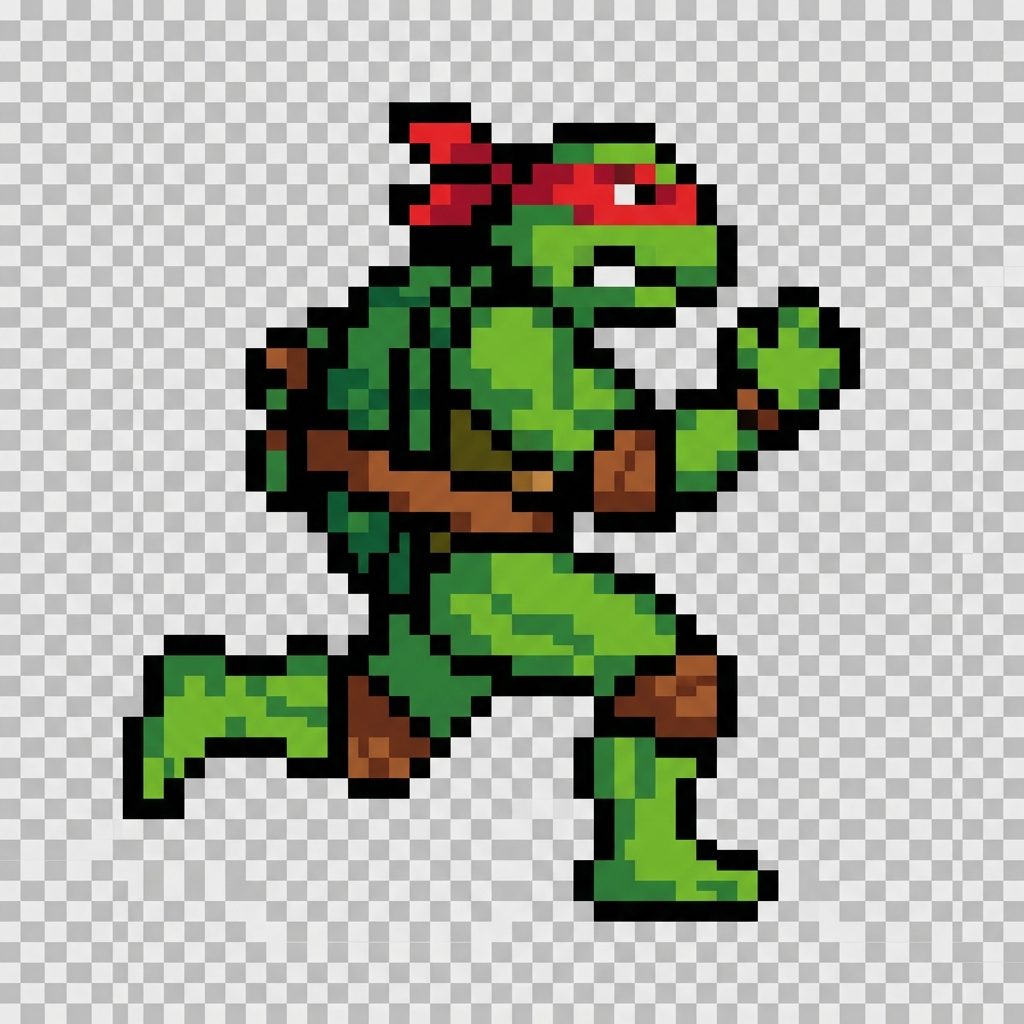
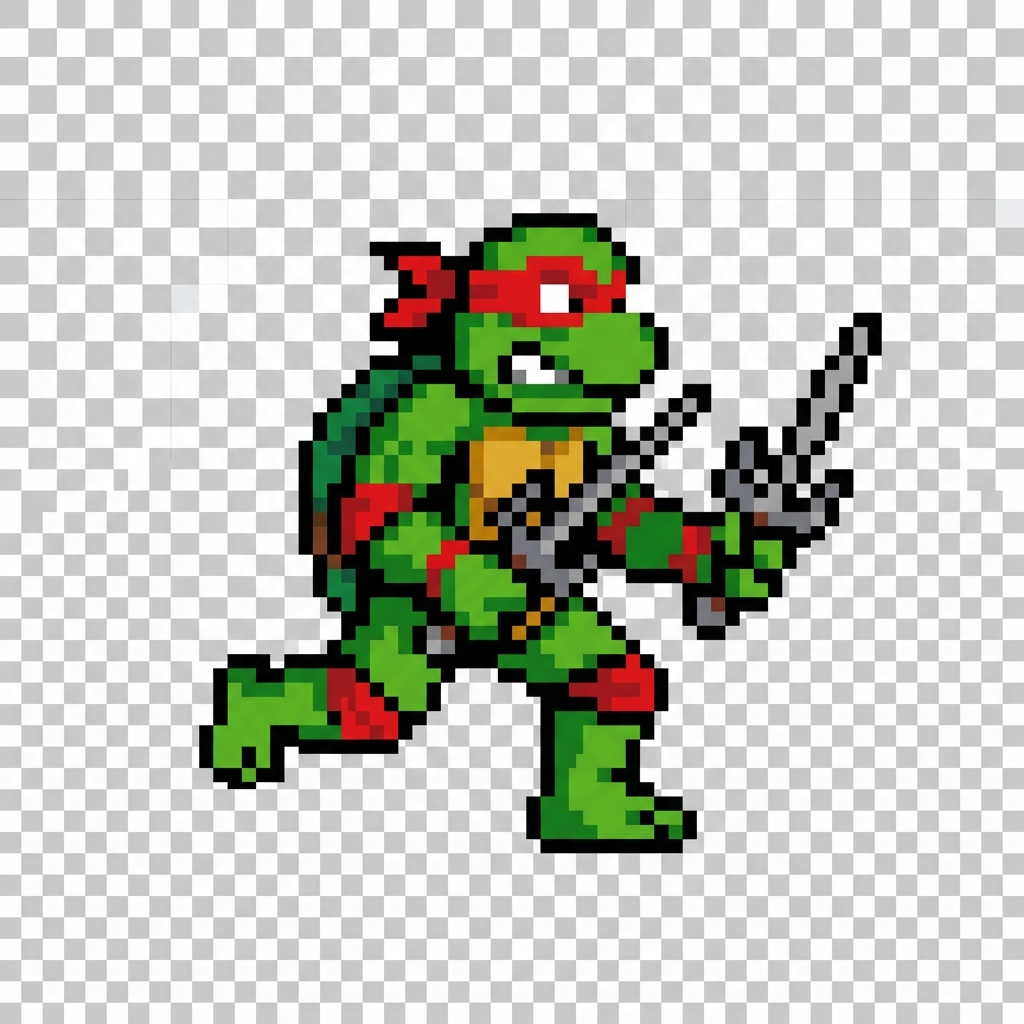
Regenerate TMNT sprites with proper PNG transparency - fix orange box issue

diff --git a/themes/tmnt/tmnt-scoreboard.html b/themes/tmnt/tmnt-scoreboard.html
@@ -384,34 +384,33 @@
       image-rendering: pixelated;
       background: none !important;
       border: none !important;
-      mix-blend-mode: multiply;
     }
 
     /* Leonardo - Blue */
     .turtle:nth-child(1) { 
       left: 150px;
-      background: url('leonardo-orange.png?v=3') no-repeat center / cover !important;
+      background: url('leonardo.png') no-repeat center / cover !important;
       filter: drop-shadow(0 0 8px #2196F3);
     }
     
     /* Raphael - Red */
     .turtle:nth-child(2) { 
       left: 230px;
-      background: url('raphael-orange.png?v=3') no-repeat center / cover !important;
+      background: url('raphael.png') no-repeat center / cover !important;
       filter: drop-shadow(0 0 8px #F44336);
     }
     
     /* Donatello - Purple */
     .turtle:nth-child(3) { 
       left: 310px;
-      background: url('donatello-orange.png?v=3') no-repeat center / cover !important;
+      background: url('donatello.png') no-repeat center / cover !important;
       filter: drop-shadow(0 0 8px #9C27B0);
     }
     
     /* Michelangelo - Orange */
     .turtle:nth-child(4) { 
       left: 390px;
-      background: url('michelangelo-orange.png?v=3') no-repeat center / cover !important;
+      background: url('michelangelo.png') no-repeat center / cover !important;
       filter: drop-shadow(0 0 8px #FF9800);
     }
 
@@ -428,18 +427,17 @@
       image-rendering: pixelated;
       background: none !important;
       border: none !important;
-      mix-blend-mode: multiply;
     }
 
     .villain:nth-child(5) { 
       left: 500px;
-      background: url('shredder-orange.png?v=3') no-repeat center / cover !important;
+      background: url('shredder.png') no-repeat center / cover !important;
       filter: drop-shadow(0 0 10px #8B2500);
     }
     
     .villain:nth-child(6) { 
       left: 590px;
-      background: url('krang-orange.png?v=3') no-repeat center / cover !important;
+      background: url('krang.png') no-repeat center / cover !important;
       filter: drop-shadow(0 0 10px #FF00FF);
     }
 
